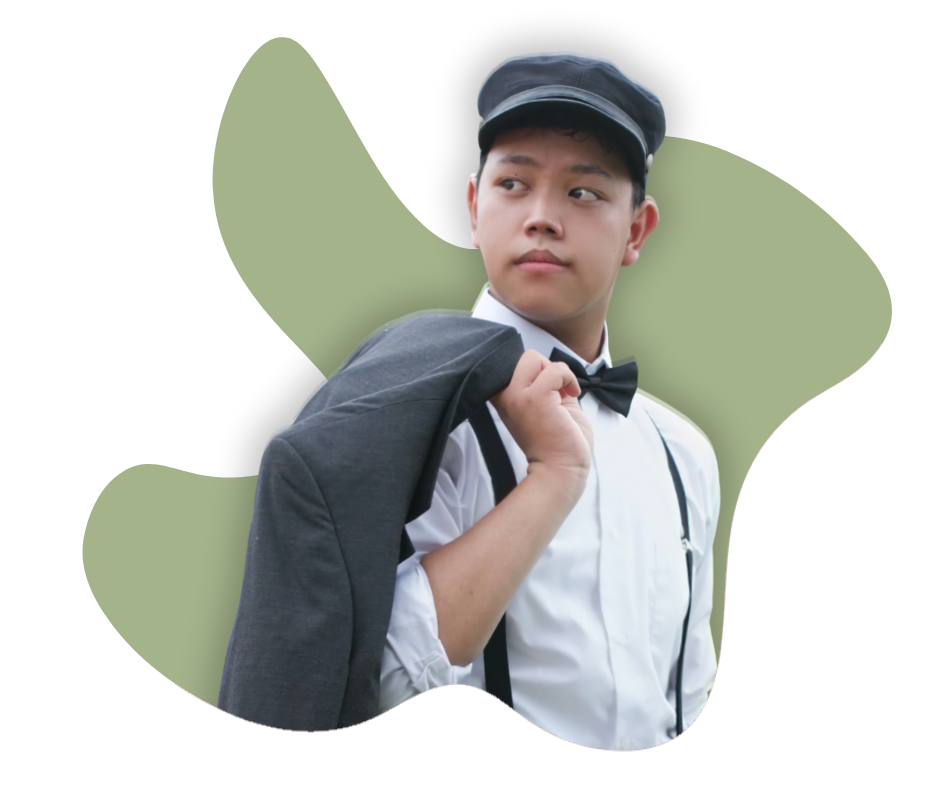
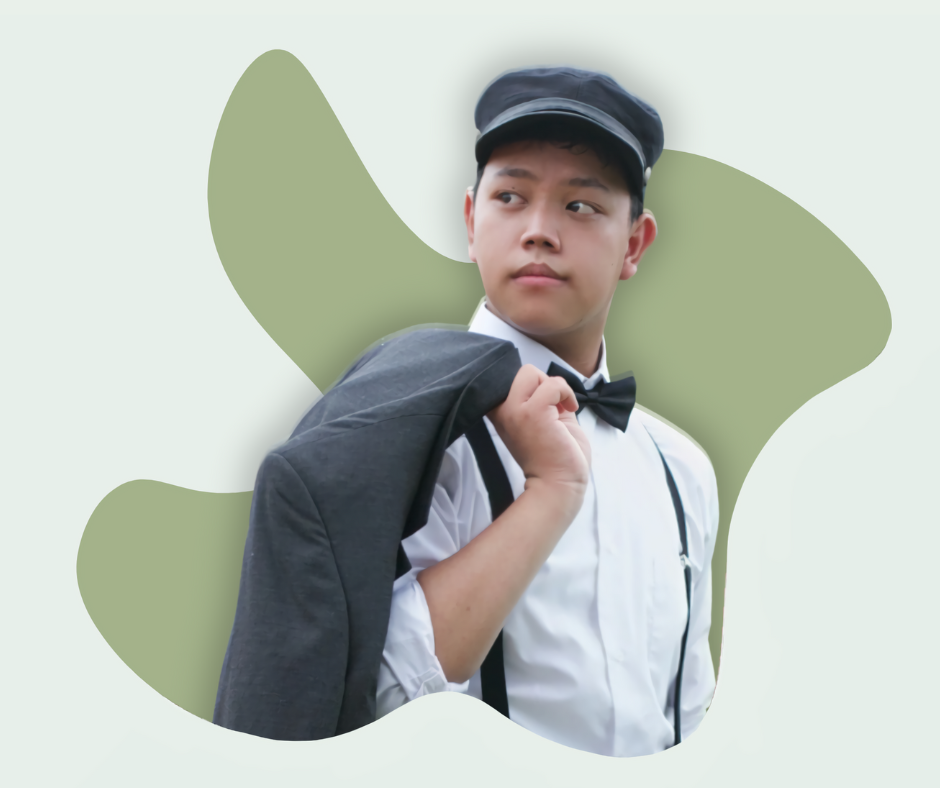
Commit 3: Home Section

diff --git a/css/style.css b/css/style.css
@@ -1,9 +1,11 @@
-/* ROOTS */
+/* ============ COLOR ROOTS =========== */
 
 :root{
     --normz-sagegreen: #88b58f;
     --light-sagegreen: #e9f0ea;
+    --dark-sagegreen: #649167;
     --dark-greyishh: #222;
+    --light-greyish: #666;
     --whiteezz: #fff;
 }
 
@@ -12,24 +14,6 @@
 .pacifico-regz {
   font-family: "Pacifico", cursive;
   font-weight: 400;
-  font-style: normal;
-}
-
-.montserrat-regz {
-  font-family: 'Montserrat', sans-serif;
-  font-weight: 400;
-  font-style: normal;
-}
-
-.montserrat-semiboldz {
-  font-family: 'Montserrat', sans-serif;
-  font-weight: 600;
-  font-style: normal;
-}
-
-.montserrat-boldz {
-  font-family: 'Montserrat', sans-serif;
-  font-weight: 800;
   font-style: normal;
 }
 
@@ -45,6 +29,8 @@
     transition: all .2s linear;
     line-height: 1.5;
 }
+ 
+/* ============ CONTENTS ============ */
 
 html{
     font-size: 62.5%;
@@ -56,6 +42,28 @@ body{
     background: var(--light-sagegreen);
     padding-left: 30rem;
 }
+
+section{
+    padding: 1rem 5%;
+    min-height: 100vh;
+}
+
+.btn{
+    display: inline-block;
+    margin-top: 1rem;
+    padding: .8rem 3rem;
+    background: var(--normz-sagegreen);
+    color: var(--whiteezz);
+    cursor: pointer;
+    font-size: 1.7rem;
+}
+
+.btn:hover{
+    background: var(--dark-greyishh);
+    letter-spacing: 0.2rem;
+}
+
+/* ============ HEADER ============ */
 
 header{
     position: fixed;
@@ -121,7 +129,60 @@ header .followzz a:hover{
     display: none;
 }
 
-/* media queries */
+
+/* ============ HOME ============ */
+.home{
+    display: flex;
+    align-items: center;
+    flex-wrap: wrap;
+    gap: 1.5rem;
+}
+
+.home .imagez{
+    flex: 1 1 40rem;
+}
+
+.home .imagez img{
+    width: 100%;
+}
+
+.home .contentz{
+    flex: 1 1 40rem;
+}
+
+.home .contentz .introw{
+    font-size: 2rem;
+    color: var(--dark-sagegreen);
+}
+
+.home .contentz h3{
+    font-size: 3.4rem;
+    color: var(--dark-greyishh);
+    text-transform: uppercase;
+}
+
+.home .contentz h3 span{
+    color: var(--dark-sagegreen);
+    text-transform: uppercase;
+}
+
+.home .contentz .infoz{
+    font-size: 2.5rem;
+    color: var(--dark-greyishh);
+    padding: 0.5rem 0;
+}
+
+.home .contentz .texts{
+    font-size: 1.7rem;
+    color: var(--light-greyish);
+    padding: 0.5rem 0;
+}
+
+
+
+
+/* ============ LAYOUT SIZING ============ */
+
 @media (max-width: 991px){
     html{
         font-size: 55%;
@@ -155,5 +216,6 @@ header .followzz a:hover{
         left: 100%;
     }
 }
+
 
 

diff --git a/index.html b/index.html
@@ -9,8 +9,6 @@
     <link rel="preconnect" href="https://fonts.gstatic.com" crossorigin>
 </head>
 <body>
-
-
     <!-- ============ MENU BARS ============ -->
     <div id="menu-barz" class="fas fa-bars"></div>
 
@@ -20,11 +18,11 @@
         <a href="#" class="logo"><span>Claudio</span> .TS</a>
 
         <nav class="navbarzz">
-            <a href="#home">home</a>
-            <a href="#about">about me</a>
-            <a href="#experiences">experiences</a>
-            <a href="#projects">projects</a>
-            <a href="#contacts">contacts</a>
+            <a href="#homez">home</a>
+            <a href="#aboutz">about me</a>
+            <a href="#experiencez">experiences</a>
+            <a href="#projectz">projects</a>
+            <a href="#contactz">contacts</a>
         </nav>
 
         <div class="followzz">
@@ -34,6 +32,23 @@
             <a href="#" class="fab fa-whatsapp"></a>
         </div>
     </header>
+
+    <!-- ============ HOME ============ -->
+    <section class="home" id="homez">
+        
+        <div class="contentz">
+            <span class="introw">Hi There!</span>
+            <h3>My name is<span> Claudio Taffarel .S</span></h3>
+            <p class="infoz">I'm a Informatics Engineering Student!</p>
+            <p class="textz">Lorem ipsum dolor sit amet consectetur adipisicing elit. Explicabo ex illo, quaerat iusto vel voluptatibus eos ipsum ea sed a autem aliquam quidem eum unde neque ab, facilis molestias nisi?</p>
+            <a href="#about me" class="btn">About Me</a>
+        </div>
+
+        <div class="imagez">
+            <img src="extras/mahface.png" alt="">
+        </div>
+
+    </section>
 
 
 
